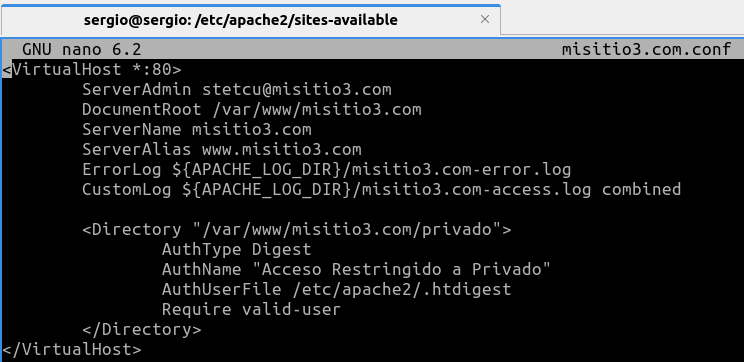
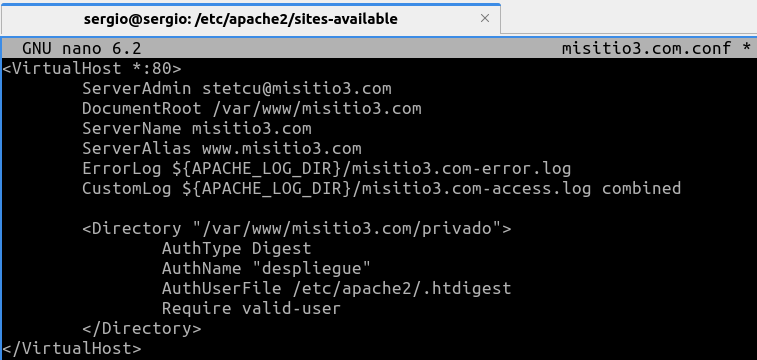
Añado cambios Viernes 08

Changed region(s): [[0.0, 0.0, 1.0, 0.55], [0.0, 0.6111, 0.7419, 1.0]]

diff --git a/Documentacion.md b/Documentacion.md
@@ -619,22 +619,9 @@ sudo systemctl status apache2
 
 ![Reinicio el servicio "apache"](./img/60_http.png)
 
-
-
-
-
-
-
-
-
-
-
-
-
-
 4. Por simplicidad y para no tener que configurar un **servidor DNS** para indicarle a nuestro ordenador que el dominio ``misitio2.com`` apunta a la dirección IP de nuestro servidor. Editaremos el archivo ``/etc/hosts`` que hace las funciones de DNS local:
 
-> Recuerda añadir las nuevas direcciones al archivo hosts de los equipos en los que quieras > comprobar el acceso al sitio web.
+> Recuerda añadir las nuevas direcciones al archivo hosts de los equipos en los que quieras comprobar el acceso al sitio web.
 
 ```bash
 sudo nano /etc/hosts
@@ -782,6 +769,42 @@ sudo nano misitio3.com.conf
 
 ![Configuro el archivo de configuración del sitio web que he creado](./img/85_http.png)
 
+> En este tipo de autenticación se utiliza el valor de la directiva ``AuthName`` como nombre de
+> dominio ``realm`` para generar el usuario y la contraseña.
+
+3. Para crear los usuarios usaremos la herramienta ``htdigest``:
+
+```bash
+sudo htdigest -c /etc/apache2/.htdigest despliegue oliver
+```
+
+![Creo los usuarios usando la herramienta "htdigest"](./img/90_http.png)
+
+> Hemos llamado al archivo de contraseñas .htdigest pero se podría haber llamado, por
+> ejemplo: passwd.txt. Pr seguridad el archivo no debería estar en la carpeta de publicación
+> de Apache.
+
+Podemos ver el contenido del fichero recién creado. En este caso los usuario y las contraseñas
+estarán cifradas:
+
+```bash
+sudo cat /etc/apache2/.htdigest
+```
+
+![Muestro el archivo creado, usuario y contraseñas cifradas](./img/91_http.png)
+
+4. Asignamos la propiedad del fichero y el grupo al usuario y grupo sobre el que se ejecuta Apache ``www-data``.
+
+```bash
+sudo chown www-data:www-data /etc/apache2/.htdigest
+```
+
+![Muestro el archivo creado, usuario y contraseñas cifradas](./img/92_http.png)
+
+> Hemos llamado al archivo de contraseñas ``.htdigest`` pero se podría haber llamado, por
+> ejemplo: ``passwd.txt``. Pr seguridad el archivo no debería estar en la carpeta de publicación
+> de Apache.
+
 Restringiremos el acceso a la carpeta privado del sitio web. Esto se indicará en la configuración de la directiva ``Directory``.
 
 Configuro el host ``virtual misitio3.com`` según la información anterior.
@@ -817,14 +840,6 @@ Resultado:
 
 ![Se crea el enlace de la configuración del sitio web](./img/88_http.png)
 
-
-
-
-
-
-
-
-
 3. Reiniciamos el servicio ``apache2``. Lo he reiniciado anteriormente, pero lo volveré a hacer por si acaso es necesario.
 
 ```bash
@@ -832,7 +847,137 @@ sudo systemctl restart apache2
 sudo systemctl status apache2
 ```
 
-![Reinicio el servicio "apache"](./img/60_http.png)
+![Reinicio el servicio "apache"](./img/89_http.png)
+
+4. Por simplicidad y para no tener que configurar un **servidor DNS** para indicarle a nuestro ordenador que el dominio ``misitio3.com`` apunta a la dirección IP de nuestro servidor. Editaremos el archivo ``/etc/hosts`` que hace las funciones de DNS local:
+
+> Recuerda añadir las nuevas direcciones al archivo hosts de los equipos en los que quieras comprobar el acceso al sitio web.
+
+```bash
+sudo nano /etc/hosts
+```
+
+![Edito el archivo "/etc/hosts"](./img/93_http.png)
+
+Si queremos probar desde el equipo **Casa** deberemos editar dicho archivo en ese equipo pero
+indicándo la dirección IP de **Servidor**:
+
+```bash
+sudo nano /etc/hosts
+```
+
+![Edito el archivo "/etc/hosts"](./img/94_http.png)
+
+Compruebo los archivos de configuración con ``apache2ctl configtest``.
+
+![Comprobar los archivos de configuración de "Apache"](./img/95_http.png)
+
+En ambos casos podemos comprobar que resuelve el nombre con:
+
+```bash
+ping -c 3 misitio3.com
+y
+ping -c 3 www.misitio3.com
+```
+
+![Comprobar que funciona](./img/96_http.png)
+
+Y podemos ver la web con el navegador de línea de comandos con:
+
+```bash
+links http://misitio3.com
+y
+links http://www.misitio3.com
+```
+
+![Comprobar que funciona](./img/97_http.png)
+
+![Comprobar que funciona](./img/98_http.png)
+
+> Letra ``q`` para salir.
+
+Desde el equipo Casa también podemos comprobar que en el navegador se pueden acceder a la web:
+``http://misitio3.com`` y ``http://www.misitio3.com``.
+
+Resultado en el navegador:
+
+![Comprobar que funciona](./img/99_http.png)
+
+![Comprobar que funciona](./img/100_http.png)
+
+5. Los registros (logs) los podemos ver desde el equipo **Servidor** con:
+
+```bash
+tail /var/log/apache2/misitio3.com-access.log
+y
+tail /var/log/apache2/misitio3.com-error.log
+```
+
+Resultado:
+
+![Muestro los registros "logs"](./img/101_http.png)
+
+No aparece nada en el log de errores porque no hay errores.
+
+6. Ahora podemos probar el sitio web tanto por terminal en **Servidor** y **Casa** como con el navegador desde **Casa**. Primero podemos acceder a la dirección ``http://misitio3.com`` y comprobar que la web funciona con normalidad. Después podemos acceder a ``http://misitio3.com/privado`` y comprobar como aparece una ventana solicitando que nos identificamos mediante un usuario y una contraseña.
+
+![Pruebo a entrar a la URL de "http://misitio3.com/privado"](./img/102_http.png)
+
+## 8.- Configurar SSL/TLS (HTTPS)
+
+SSL (Secure Socket Layer) es un protocolo de seguridad que nació con el objetivo de cifrar las
+comunicaciones entre los servidores web y los navegadores de forma que, si se interceptaba la conexión, nunca se pudiera desvelar el contenido de la misma. Con el paso del tiempo se han ido encontrando diversas vulnerabilidades críticas que han hecho que la recomendación sea user un nuevo protocolo llamado TLS (Transport Secure Layer).
+
+El primer paso para configurar SSL en Apache será crear el certificado y la clave, que se quedarán almacenados en /etc/apache2/certs. Para eso primero creamos la carpeta y luego el certificado y su correspondiente clave.
+
+Hay que tener en cuenta que estamos creando un certificado autofirmado. Este tipo de certificados sólo se deben usar con el propósito de enseñar o hacer una demostración puesto que en la práctica no son válidos. El navegador no confiará en él porque somos nosotros quienes lo hemos firmado. Los certificados, para que sean válidos, deben ser validados por una entidad certificadora. Más adelante veremos como el navegador avisa al usuario de que el certificado no es fiable (aunque siempre le mostrará la opción de continuar a pesar de ello)
+
+1. Creamos el certificado y guardamos la clave privada ``misitio4.key`` y la clave pública
+``misitio4.crt``: En la ubicación por defecto de SSL:
+
+```bash
+sudo openssl req -x509 -nodes -days 365 -newkey rsa:4096 \
+-keyout /etc/ssl/private/misitio4.key \
+-out /etc/ssl/certs/misitio4.crt
+```
+
+Resultado:
+
+![Creo el certificado y guardo la clave privado "misitio4.key" y la clave pública "misitio4.crt"](./img/103_http.png)
+
+O en una carpeta dentro de la configuración de Apache.
+
+```bash
+sudo mkdir /etc/apache2/certs
+sudo openssl req -x509 -nodes -days 365 -newkey rsa:4096 \
+-keyout /etc/apache2/certs/misitio4.key \
+-out /etc/apache2/certs/misitio4.crt
+```
+
+> Contestaremos a las preguntas que nos vayan haciendo por terminal con:
+
+* Country Name (2 letter code) [AU]: ES
+* State or Province Name (full name) [Some-State]: Almeria
+* Locality Name (eg, city) []: Aguadulce
+* Organization Name (eg, company) [Internet Widgits Pty Ltd]* : IES Aguadulce
+* Organizational Unit Name (eg, section) []: LMSGI
+* Common Name (e.g. server FQDN or YOUR name) []: misitio4.com
+* Email Address []: stetcu@misitio4.com
+
+
+
+
+
+
+
+
+
+
+
+
+
+
+
 
 
 
